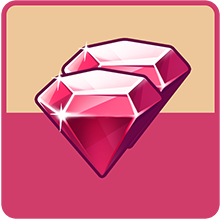
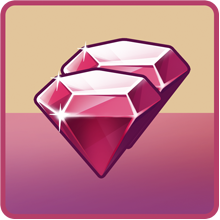
add in shop starterpack

diff --git a/src/scripts/scenes/Modal/Shop/Main.ts b/src/scripts/scenes/Modal/Shop/Main.ts
@@ -65,6 +65,7 @@ let levelBg: any = require("./../../../../assets/images/modal/level-bg.png");
 let boostBg: any = require("./../../../../assets/images/modal/boost-bg.png");
 let improveCollector: any = require("./../../../../assets/images/modal/improve-collector.png");
 let shopResourceCollector: any = require("./../../../../assets/images/event/shop-resource-collector.png");
+let starterpackBg: any = require("./../../../../assets/images/modal/starterpack-bg.png");
 
 class Shop extends Phaser.Scene {
   constructor() {
@@ -160,6 +161,7 @@ class Shop extends Phaser.Scene {
     this.load.image('level-bg', levelBg);
     this.load.image('boost-bg', boostBg);
     this.load.image('improve-collector', improveCollector);
+    this.load.image('starterpack-bg', starterpackBg);
 
   }
 
@@ -272,10 +274,51 @@ class Shop extends Phaser.Scene {
     let rows: number = Math.ceil(this.state.packages.length / 2);
     let height: number = rows * 270 + 40;
     this.scrolling.bottom = this.height - this.heightWindow + height;
+    
+    if (!this.state.user.starterpack) {
+
+      let starterpackBg: Phaser.GameObjects.Image = this.add.image(this.cameras.main.centerX, this.cameras.main.centerY - 240, 'starterpack-bg');
+      let text1: Phaser.GameObjects.Text = this.add.text(this.cameras.main.centerX + 40, this.cameras.main.centerY - 290, this.state.lang.buyFrom, {
+        font: '26px Shadow',
+        color: '#FBCB64'
+      }).setOrigin(0.5, 0.5);
+  
+      let text2: Phaser.GameObjects.Text = this.add.text(text1.getBounds().right + 10, text1.y, '750', {
+        font: '26px Shadow',
+        color: '#ffffff'
+      }).setOrigin(0, 0.5);
+  
+      let diamond1: Phaser.GameObjects.Image = this.add.image(text2.getBounds().right + 5, text1.y, 'diamond').setScale(0.10).setOrigin(0, 0.5);
+  
+      let text3: Phaser.GameObjects.Text = this.add.text(this.cameras.main.centerX + 80, text1.getBounds().bottom + 5, this.state.lang.getGift,  {
+        font: '26px Shadow',
+        color: '#FBCB64'
+      }).setOrigin(0.5, 0);
+  
+      let text4: Phaser.GameObjects.Text = this.add.text(this.cameras.main.centerX + 40, text3.getBounds().bottom + 5, this.state.lang.more, {
+        font: '26px Shadow',
+        color: '#FBCB64'
+      }).setOrigin(0.5, 0);
+      
+      let text5: Phaser.GameObjects.Text = this.add.text(text4.getBounds().right + 5, text3.getBounds().bottom + 5, '+750', {
+        font: '26px Shadow',
+        color: '#FFFFFF'
+      }).setOrigin(0, 0);
+  
+      let diamond2: Phaser.GameObjects.Image = this.add.image(text5.getBounds().right + 5, text5.y, 'diamond').setScale(0.10).setOrigin(0);
+  
+      let text6: Phaser.GameObjects.Text = this.add.text(this.cameras.main.centerX + 80, text4.getBounds().bottom + 5, this.state.lang.dontMissChanse, {
+        font: '26px Shadow',
+        color: '#FFFFFF'
+      }).setOrigin(0.5, 0);
+    }
+
 
     for (let i: number = 0; i < rows; i++) {
-
       let y: number = i * 270 + 40;
+
+      if (!this.state.user.starterpack) y += 200;
+      
       let left: Ipackage = this.state.packages[i * 2];
       let right: Ipackage = this.state.packages[i * 2 + 1];
       

diff --git a/src/scripts/scenes/Preload.ts b/src/scripts/scenes/Preload.ts
@@ -96,6 +96,8 @@ let mapCloud: any = require("./../../assets/images/event/map-cloud.png");
 let mapEventFarm: any = require("./../../assets/images/event/map-event-farm.png");
 let mapEventIsland: any = require("./../../assets/images/event/map-event-island.png");
 let unicornStatus: any = require("./../../assets/images/icons/unicorn-status.png");
+let starterpackBg: any = require("./../../assets/images/modal/starterpack-bg.png");
+
 
 class Preload extends Phaser.Scene {
   constructor() {
@@ -219,6 +221,7 @@ class Preload extends Phaser.Scene {
     if (this.state.farm === 'Sheep') this.load.image('sheep-feed-boost-icon', feedBoostSheepIcon);
     if (this.state.farm === 'Chicken') this.load.image('chicken-herd-boost-icon', feedBoostChickenIcon);
     this.load.image('unicorn-status', unicornStatus);
+    this.load.image('starterpack-bg', starterpackBg);
   }
 
 }

diff --git a/src/scripts/langs.ts b/src/scripts/langs.ts
@@ -583,7 +583,10 @@ export default {
     unitEvent: 'р.',
     income: 'Доход',
     unicornStatus: 'Друг единорогов',
-
+    buyFrom: 'Купи от',
+    getGift: 'Получи в подарок',
+    more: 'ещё',
+    dontMissChanse: 'Не упусти шанс!',
   },
 
   en: {
@@ -1170,5 +1173,9 @@ export default {
     unitEvent: 'р.',
     income: 'Доход',
     unicornStatus: 'Друг единорогов',
+    buyFrom: 'Купи от',
+    getGift: 'Получи в подарок',
+    more: 'ещё',
+    dontMissChanse: 'Не упусти шанс!',
   }
 }
